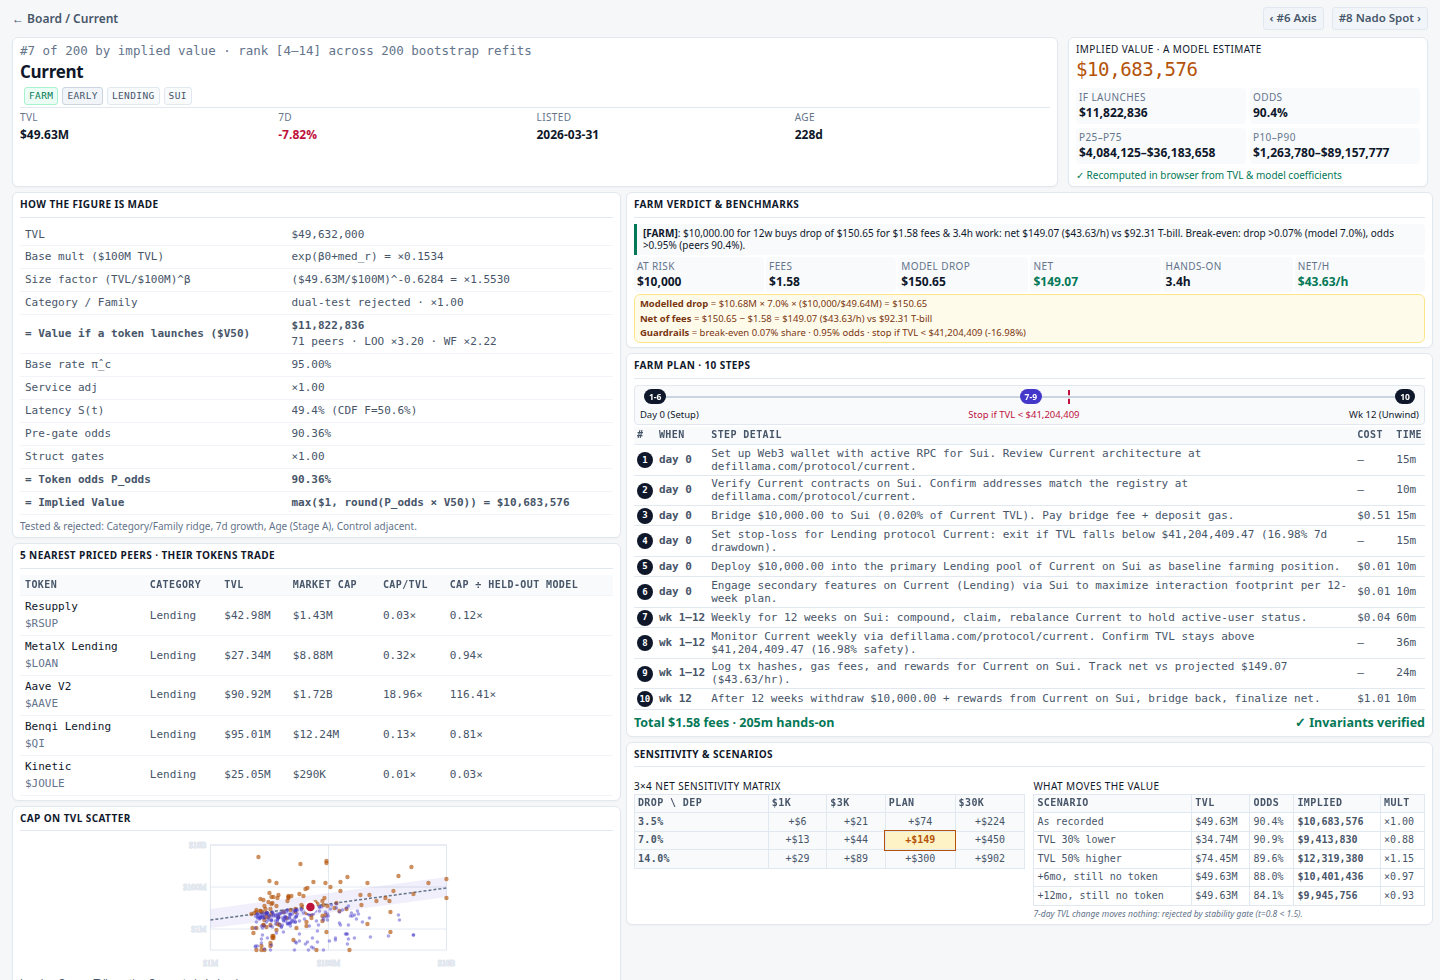
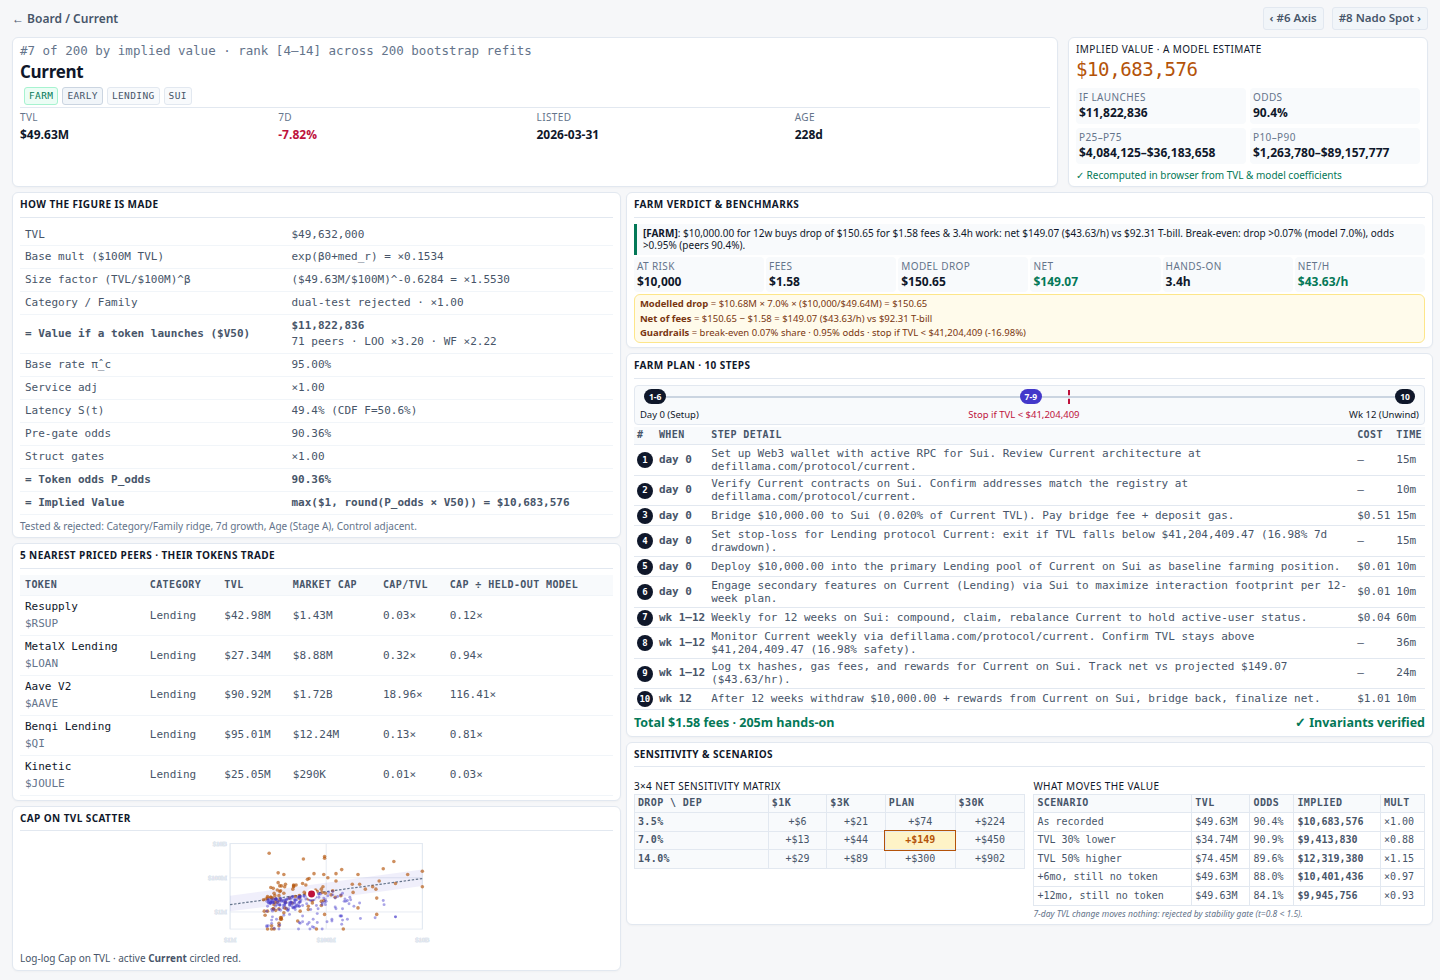
radar-5.3 qc1-fix3: fit detail scatter caption in frame (round 6)

diff --git a/dashboard/app.css b/dashboard/app.css
@@ -1,1 +1,1 @@
-.act,.dm-st,.e-ft,.inp,.m-tb,.p-gp,.s-bx,.sel,.tl-bar,.v-co,thead,tr.in-open{background:#f8fafc}.act,.bc-btn,.fp-btn,.p-gp,tr.r-ck:hover,.m-cl:hover{background:#f1f5f9}.act,.fp-btn,.in-pl-box,.inp,.sel{border:1px solid #cbd5e1}.bc-btn,.m-tb td,.m-tb th,.sn-tb td,.sn-tb th,.tl-bar{border:1px solid #e2e8f0}.a-bx,.c-bx,.dm-st,.e-ft,.fa-bx,.h-cd,.h-lf,.in-pl-box,.k-c,.t-br,.t-hd,.t-wp{border-radius:6px}.act,.fp-btn,.inp,.p-gp,.s-bx,.sel,.tl-bar{border-radius:4px}.a-bar,.a-hd,.a-it,.a-lg,.bc,.bc-nav,.in-pl-hd,.o-wp,.p-ft,.t-gp,.t-hd,.t-rw,.tl-lbl,.tl-track,.v-st{display:flex}.d-gd,.e-pan,.kpi6,.m-bx-grid,.m-st,.s-gd,.s-hd,.s-st6{display:grid}.act,.bc-btn,.bc-l,.dm-lk,.fp-btn,.m-cl,.p-btn,th.sortable,tr.r-ck{cursor:pointer}.a-tt,.c-mn,.k-v,.m-vl,.p-tt,.s-bv,.x-hd,th.sortable:hover,tr:hover .c-mn,.bc-l:hover{color:#0f172a}.a-lg,.a-sb,.bc,.c-lb,.dm-st,.e-ft,.e-sub,.k-t,td,th{color:#475569}.c-ft,.c-sb,.k-s,.m-lb,.s-bl,.sn-ft,.snap{color:#64748b}.a-lg,.a-tt,.c-ft,.e-sub,.h-hd,.k-s,.k-t,.m-lb,.m-tb,.r-nt,.s-bl,.sn-tb,.sub-hd,.tl-bar,.x-hd,th{font-size:10px}.a-sb,.act,.c-lb,.dm-st,.e-ft,.fa-bx,.in-pl-hd,.inp,.p-btn,.sel,table{font-size:11px}.bc,.m-vl,.s-bv,.v-co{font-size:12px}.b-tit,.dm-tt,.k-v,.m-vl,.neg,.p-ft,.p-tt,.pos,.s-bv,.x-hd,th{font-weight:700}.a-bx{padding:4px 8px}.a-bar,.a-hd{margin-bottom:3px}.a-sg{height:100%}.e-pan .c-bx{padding:3px 5px}.dm-tt{color:#1e293b}.dm-lk:hover{color:#312e81}.t-gp,.t-rw{align-items:center}.t-gp{gap:6px}.p-gp{padding:1px}.c-lb{gap:4px}.inp{min-width:130px}.act:hover,.bc-btn:hover,.fp-btn:hover{background:#e2e8f0}.t-wp{overflow-x:auto}th{text-align:left}tr.r-ck{transition:background .1s}.c-sk,.m-it{gap:1px}.pos,.r-nt{color:#047857}.neg{color:#be123c}.o-br,.o-tk{border-radius:2px}.w-br,.w-md{position:absolute}.in-pl{padding:0}.in-pl-hd{margin-bottom:6px}.bc{padding:2px 0}.bc-l{font-weight:600}.c-bx,.h-cd,.h-lf{padding:4px 7px}.r-nt,.s-gd{margin-top:4px}.d-gd{grid-template-columns:43% 57%}.c-col,.d-gd{gap:5px}.v-co.marginal{border-left-color:#b45309}.v-co.skip{border-left-color:#be123c}.s-bx{padding:2px 3px}.fa-bx div+div{margin-top:2px}.m-tb td,.m-tb th,.sn-tb td,.sn-tb th{padding:1.5px 3px}.sn-tb td{white-space:nowrap}*{box-sizing:border-box;margin:0;padding:0;border:0 solid #e2e8f0}body{background:#f6f7f9;color:#0f172a;font:12.5px/1.45 system-ui,sans-serif;-webkit-font-smoothing:antialiased}.badge,.h-v,.k-v,.mono,.snap,.v-pl,td,th{font-family:ui-monospace,monospace;font-feature-settings:"tnum"}.shell{max-width:1440px;margin:0 auto;padding:5px 12px;display:flex;flex-direction:column;gap:5px}.a-bx,.c-bx,.dm-st,.e-ft,.h-cd,.h-lf,.in-pl-box,.k-c,.t-br,.t-wp{background:#fff;border-width:1px;box-shadow:0 1px 2px #00000008}.c-bx,.c-col,.c-sk,.h-cd,.h-lf,.k-c,.m-it,.s-bx,.t-br,.w-wp{display:flex;flex-direction:column}.c-lb,.fp-btn,.p-bg,.tl-node,.v-pl{display:inline-flex;align-items:center}.a-tt,.badge,.h-hd,.k-t,.m-lb,.p-tb th,.s-bl,.sub-hd,.x-hd,th{text-transform:uppercase;letter-spacing:.04em}.t-hd{background:#111827;color:#f8fafc;padding:5px 10px;justify-content:space-between;align-items:center;flex-wrap:wrap;gap:8px}.b-tit{font-size:15px;color:#fff;letter-spacing:-.01em}.b-sub,.t-hd .snap{font-size:11.5px;color:#94a3b8}.m-hl{color:#38bdf8;font-weight:600}.kpi6{grid-template-columns:repeat(6,1fr);gap:5px}.k-c{padding:3px 7px;justify-content:space-between}.k-v{font-size:15px;letter-spacing:-.02em}.a-hd{justify-content:space-between;align-items:center}.a-bar{height:8px;border-radius:4px;overflow:hidden;background:#f1f5f9}.a-lg{flex-wrap:wrap;gap:4px 10px}.a-it{align-items:center;gap:4px}.a-dt{width:8px;height:8px;border-radius:2px;display:inline-block}.v-st{flex-wrap:wrap;gap:6px}.v-pl{gap:3px;padding:2px 7px;border-radius:12px;font-size:10.5px;background:#ecfdf5;color:#047857;border:1px solid #a7f3d0}.v-pl.pill-fail{background:#fff1f2;color:#be123c;border-color:#fecdd3}.e-pan{grid-template-columns:repeat(4,minmax(0,1fr));gap:5px}.e-pan td,.e-pan th{padding:1.5px 3px;font-size:9px;line-height:1.2}.e-pan td:first-child{white-space:normal;line-height:1.25}.e-pan .badge{margin:0;font-size:8px;padding:1px 2px;letter-spacing:0}.e-sub{line-height:1.35;margin-top:5px}.e-ft{grid-column:1/-1;padding:3px 8px;font-size:9.5px}.sc-svg{width:100%;height:auto;max-height:80px;display:block}.dm-st{padding:3px 8px;border-left:3px solid #6366f1;align-items:center;gap:4px;flex-wrap:wrap;font-size:10px}.dm-lk{color:#4338ca;text-decoration:underline;text-underline-offset:2px}.t-br{padding:3px 8px;gap:3px}.t-rw{gap:8px;justify-content:space-between;flex-wrap:wrap}.p-btn{background:0 0;font-weight:500;padding:3px 7px;border-radius:3px;color:#475569}.p-btn[aria-selected=true]{background:#0f172a;color:#fff;font-weight:700}.p-btn.farm-pill[aria-selected=true]{background:#047857;color:#fff}.p-btn.skip-pill[aria-selected=true]{background:#be123c;color:#fff}.inp,.sel{background:#fff;color:#0f172a;padding:3px 7px;outline:0}.act{color:#0f172a;padding:3px 7px;font-weight:500}table{width:100%;border-collapse:collapse}thead{position:sticky;top:0;z-index:2;border-bottom:1px solid #cbd5e1}td,th{white-space:nowrap;padding:3px 5px;vertical-align:middle;border-bottom:1px solid #f1f5f9}.badge{display:inline-block;padding:1px 4px;margin-left:4px;border-width:1px;border-radius:3px;font-size:9.5px}.b-farm{background:#ecfdf5;color:#047857;border-color:#a7f3d0}.b-marginal{background:#fffbeb;color:#b45309;border-color:#fde68a}.b-skip{background:#fff1f2;color:#be123c;border-color:#fecdd3}.b-watch{background:#eef2ff;color:#4338ca;border-color:#c7d2fe}.b-early{background:#f1f5f9;color:#475569;border-color:#cbd5e1}.b-gate{background:#fff7ed;color:#c2410c;border-color:#ffedd5}.b-tag{background:#f8fafc;color:#475569;border-color:#e2e8f0}.o-wp{align-items:center;gap:5px;min-width:85px}.o-tk{flex:1;height:5px;background:#e2e8f0;overflow:hidden}.o-br{height:100%;background:#4338ca}.w-wp{gap:2px;min-width:100px}.w-tk{position:relative;height:4px;background:#e2e8f0;border-radius:2px}.w-br{height:100%;background:#94a3b8;border-radius:2px}.w-md{top:-2px;width:2px;height:8px;background:#b45309;transform:translate(-50%)}.fp-btn{gap:3px;padding:2px 6px;font-size:10.5px;color:#334155;font-weight:500}.in-pl-box{padding:3px 5px;margin:2px 4px}.bc,.in-pl-hd{justify-content:space-between;align-items:center}.bc-nav{gap:8px;font-size:11.5px}.bc-btn{padding:2px 6px;border-radius:3px;font-weight:600}.s-hd{grid-template-columns:1fr 360px;gap:10px}.p-tt{font-size:17px;margin:0 0 2px;letter-spacing:-.02em}.m-st{grid-template-columns:repeat(4,1fr);gap:3px;margin-top:2px;border-top-width:1px;padding-top:2px}.x-hd{border-bottom-width:1px;padding-bottom:5px;margin-bottom:6px}.h-v{font-size:19px;color:#b45309;letter-spacing:-.02em}.s-gd{grid-template-columns:1fr 1fr;gap:4px}.v-co{border-left:3px solid #047857;padding:3px 6px;line-height:1.25;border-radius:0 4px 4px 0;font-size:10px}.s-st6{grid-template-columns:repeat(6,1fr);gap:2px;margin:2px 0}.fa-bx{background:#fffbeb;border:1px solid #fde68a;padding:3px 5px;line-height:1.3;color:#78350f;font-size:9.5px}.tl-bar{padding:2px 5px;margin-bottom:2px}.tl-track{position:relative;height:18px;align-items:center;justify-content:space-between;padding:0 4px}.tl-line{position:absolute;left:4px;right:4px;height:2px;background:#cbd5e1;top:50%;transform:translateY(-50%)}.tl-stop{position:absolute;left:55%;height:14px;border-left:2px dashed #be123c;top:2px}.tl-node{position:relative;z-index:2;justify-content:center;height:15px;padding:0 5px;border-radius:8px;background:#0f172a;color:#fff;font-size:8.5px;font-weight:700}.tl-lbl{justify-content:space-between;font-size:9.5px;margin-top:2px}.p-tb td,.p-tb th{padding:1.5px 3px;border-bottom:1px solid #e2e8f0}.p-tb td:nth-child(3){white-space:normal;line-height:1.2;word-break:break-word}.p-bg{justify-content:center;width:16px;height:16px;border-radius:50%;background:#0f172a;color:#fff;font-size:9px;font-weight:700}.p-ft{justify-content:space-between;align-items:center;padding-top:4px;color:#047857}.m-bx-grid{grid-template-columns:1fr 1fr;gap:8px;margin-top:6px}.m-tb,.sn-tb{border-collapse:collapse;width:100%}.m-cl{text-align:center;transition:background .1s}.m-cl.active{background:#fef3c7;font-weight:700;color:#b45309;outline:1.5px solid #b45309}.sn-ft{font-size:8.5px;margin-top:2px;font-style:italic}.c-ft{margin-top:5px;line-height:1.35}.skip-link{position:absolute;left:-9999px}.skip-link:focus{top:4px;left:4px;background:#0f172a;color:#fff;padding:4px 8px;font-weight:700;z-index:100;text-decoration:none}.d-gd .sc-svg{max-height:135px}
+.act,.dm-st,.e-ft,.inp,.m-tb,.p-gp,.s-bx,.sel,.tl-bar,.v-co,thead,tr.in-open{background:#f8fafc}.act,.bc-btn,.fp-btn,.p-gp,tr.r-ck:hover,.m-cl:hover{background:#f1f5f9}.act,.fp-btn,.in-pl-box,.inp,.sel{border:1px solid #cbd5e1}.bc-btn,.m-tb td,.m-tb th,.sn-tb td,.sn-tb th,.tl-bar{border:1px solid #e2e8f0}.a-bx,.c-bx,.dm-st,.e-ft,.fa-bx,.h-cd,.h-lf,.in-pl-box,.k-c,.t-br,.t-hd,.t-wp{border-radius:6px}.act,.fp-btn,.inp,.p-gp,.s-bx,.sel,.tl-bar{border-radius:4px}.a-bar,.a-hd,.a-it,.a-lg,.bc,.bc-nav,.in-pl-hd,.o-wp,.p-ft,.t-gp,.t-hd,.t-rw,.tl-lbl,.tl-track,.v-st{display:flex}.d-gd,.e-pan,.kpi6,.m-bx-grid,.m-st,.s-gd,.s-hd,.s-st6{display:grid}.act,.bc-btn,.bc-l,.dm-lk,.fp-btn,.m-cl,.p-btn,th.sortable,tr.r-ck{cursor:pointer}.a-tt,.c-mn,.k-v,.m-vl,.p-tt,.s-bv,.x-hd,th.sortable:hover,tr:hover .c-mn,.bc-l:hover{color:#0f172a}.a-lg,.a-sb,.bc,.c-lb,.dm-st,.e-ft,.e-sub,.k-t,td,th{color:#475569}.c-ft,.c-sb,.k-s,.m-lb,.s-bl,.sn-ft,.snap{color:#64748b}.a-lg,.a-tt,.c-ft,.e-sub,.h-hd,.k-s,.k-t,.m-lb,.m-tb,.r-nt,.s-bl,.sn-tb,.sub-hd,.tl-bar,.x-hd,th{font-size:10px}.a-sb,.act,.c-lb,.dm-st,.e-ft,.fa-bx,.in-pl-hd,.inp,.p-btn,.sel,table{font-size:11px}.bc,.m-vl,.s-bv,.v-co{font-size:12px}.b-tit,.dm-tt,.k-v,.m-vl,.neg,.p-ft,.p-tt,.pos,.s-bv,.x-hd,th{font-weight:700}.a-bx{padding:4px 8px}.a-bar,.a-hd{margin-bottom:3px}.a-sg{height:100%}.e-pan .c-bx{padding:3px 5px}.dm-tt{color:#1e293b}.dm-lk:hover{color:#312e81}.t-gp,.t-rw{align-items:center}.t-gp{gap:6px}.p-gp{padding:1px}.c-lb{gap:4px}.inp{min-width:130px}.act:hover,.bc-btn:hover,.fp-btn:hover{background:#e2e8f0}.t-wp{overflow-x:auto}th{text-align:left}tr.r-ck{transition:background .1s}.c-sk,.m-it{gap:1px}.pos,.r-nt{color:#047857}.neg{color:#be123c}.o-br,.o-tk{border-radius:2px}.w-br,.w-md{position:absolute}.in-pl{padding:0}.in-pl-hd{margin-bottom:6px}.bc{padding:2px 0}.bc-l{font-weight:600}.c-bx,.h-cd,.h-lf{padding:4px 7px}.r-nt,.s-gd{margin-top:4px}.d-gd{grid-template-columns:43% 57%}.c-col,.d-gd{gap:5px}.v-co.marginal{border-left-color:#b45309}.v-co.skip{border-left-color:#be123c}.s-bx{padding:2px 3px}.fa-bx div+div{margin-top:2px}.m-tb td,.m-tb th,.sn-tb td,.sn-tb th{padding:1.5px 3px}.sn-tb td{white-space:nowrap}*{box-sizing:border-box;margin:0;padding:0;border:0 solid #e2e8f0}body{background:#f6f7f9;color:#0f172a;font:12.5px/1.45 system-ui,sans-serif;-webkit-font-smoothing:antialiased}.badge,.h-v,.k-v,.mono,.snap,.v-pl,td,th{font-family:ui-monospace,monospace;font-feature-settings:"tnum"}.shell{max-width:1440px;margin:0 auto;padding:5px 12px;display:flex;flex-direction:column;gap:5px}.a-bx,.c-bx,.dm-st,.e-ft,.h-cd,.h-lf,.in-pl-box,.k-c,.t-br,.t-wp{background:#fff;border-width:1px;box-shadow:0 1px 2px #00000008}.c-bx,.c-col,.c-sk,.h-cd,.h-lf,.k-c,.m-it,.s-bx,.t-br,.w-wp{display:flex;flex-direction:column}.c-lb,.fp-btn,.p-bg,.tl-node,.v-pl{display:inline-flex;align-items:center}.a-tt,.badge,.h-hd,.k-t,.m-lb,.p-tb th,.s-bl,.sub-hd,.x-hd,th{text-transform:uppercase;letter-spacing:.04em}.t-hd{background:#111827;color:#f8fafc;padding:5px 10px;justify-content:space-between;align-items:center;flex-wrap:wrap;gap:8px}.b-tit{font-size:15px;color:#fff;letter-spacing:-.01em}.b-sub,.t-hd .snap{font-size:11.5px;color:#94a3b8}.m-hl{color:#38bdf8;font-weight:600}.kpi6{grid-template-columns:repeat(6,1fr);gap:5px}.k-c{padding:3px 7px;justify-content:space-between}.k-v{font-size:15px;letter-spacing:-.02em}.a-hd{justify-content:space-between;align-items:center}.a-bar{height:8px;border-radius:4px;overflow:hidden;background:#f1f5f9}.a-lg{flex-wrap:wrap;gap:4px 10px}.a-it{align-items:center;gap:4px}.a-dt{width:8px;height:8px;border-radius:2px;display:inline-block}.v-st{flex-wrap:wrap;gap:6px}.v-pl{gap:3px;padding:2px 7px;border-radius:12px;font-size:10.5px;background:#ecfdf5;color:#047857;border:1px solid #a7f3d0}.v-pl.pill-fail{background:#fff1f2;color:#be123c;border-color:#fecdd3}.e-pan{grid-template-columns:repeat(4,minmax(0,1fr));gap:5px}.e-pan td,.e-pan th{padding:1.5px 3px;font-size:9px;line-height:1.2}.e-pan td:first-child{white-space:normal;line-height:1.25}.e-pan .badge{margin:0;font-size:8px;padding:1px 2px;letter-spacing:0}.e-sub{line-height:1.35;margin-top:5px}.e-ft{grid-column:1/-1;padding:3px 8px;font-size:9.5px}.sc-svg{width:100%;height:auto;max-height:80px;display:block}.dm-st{padding:3px 8px;border-left:3px solid #6366f1;align-items:center;gap:4px;flex-wrap:wrap;font-size:10px}.dm-lk{color:#4338ca;text-decoration:underline;text-underline-offset:2px}.t-br{padding:3px 8px;gap:3px}.t-rw{gap:8px;justify-content:space-between;flex-wrap:wrap}.p-btn{background:0 0;font-weight:500;padding:3px 7px;border-radius:3px;color:#475569}.p-btn[aria-selected=true]{background:#0f172a;color:#fff;font-weight:700}.p-btn.farm-pill[aria-selected=true]{background:#047857;color:#fff}.p-btn.skip-pill[aria-selected=true]{background:#be123c;color:#fff}.inp,.sel{background:#fff;color:#0f172a;padding:3px 7px;outline:0}.act{color:#0f172a;padding:3px 7px;font-weight:500}table{width:100%;border-collapse:collapse}thead{position:sticky;top:0;z-index:2;border-bottom:1px solid #cbd5e1}td,th{white-space:nowrap;padding:3px 5px;vertical-align:middle;border-bottom:1px solid #f1f5f9}.badge{display:inline-block;padding:1px 4px;margin-left:4px;border-width:1px;border-radius:3px;font-size:9.5px}.b-farm{background:#ecfdf5;color:#047857;border-color:#a7f3d0}.b-marginal{background:#fffbeb;color:#b45309;border-color:#fde68a}.b-skip{background:#fff1f2;color:#be123c;border-color:#fecdd3}.b-watch{background:#eef2ff;color:#4338ca;border-color:#c7d2fe}.b-early{background:#f1f5f9;color:#475569;border-color:#cbd5e1}.b-gate{background:#fff7ed;color:#c2410c;border-color:#ffedd5}.b-tag{background:#f8fafc;color:#475569;border-color:#e2e8f0}.o-wp{align-items:center;gap:5px;min-width:85px}.o-tk{flex:1;height:5px;background:#e2e8f0;overflow:hidden}.o-br{height:100%;background:#4338ca}.w-wp{gap:2px;min-width:100px}.w-tk{position:relative;height:4px;background:#e2e8f0;border-radius:2px}.w-br{height:100%;background:#94a3b8;border-radius:2px}.w-md{top:-2px;width:2px;height:8px;background:#b45309;transform:translate(-50%)}.fp-btn{gap:3px;padding:2px 6px;font-size:10.5px;color:#334155;font-weight:500}.in-pl-box{padding:3px 5px;margin:2px 4px}.bc,.in-pl-hd{justify-content:space-between;align-items:center}.bc-nav{gap:8px;font-size:11.5px}.bc-btn{padding:2px 6px;border-radius:3px;font-weight:600}.s-hd{grid-template-columns:1fr 360px;gap:10px}.p-tt{font-size:17px;margin:0 0 2px;letter-spacing:-.02em}.m-st{grid-template-columns:repeat(4,1fr);gap:3px;margin-top:2px;border-top-width:1px;padding-top:2px}.x-hd{border-bottom-width:1px;padding-bottom:5px;margin-bottom:6px}.h-v{font-size:19px;color:#b45309;letter-spacing:-.02em}.s-gd{grid-template-columns:1fr 1fr;gap:4px}.v-co{border-left:3px solid #047857;padding:3px 6px;line-height:1.25;border-radius:0 4px 4px 0;font-size:10px}.s-st6{grid-template-columns:repeat(6,1fr);gap:2px;margin:2px 0}.fa-bx{background:#fffbeb;border:1px solid #fde68a;padding:3px 5px;line-height:1.3;color:#78350f;font-size:9.5px}.tl-bar{padding:2px 5px;margin-bottom:2px}.tl-track{position:relative;height:18px;align-items:center;justify-content:space-between;padding:0 4px}.tl-line{position:absolute;left:4px;right:4px;height:2px;background:#cbd5e1;top:50%;transform:translateY(-50%)}.tl-stop{position:absolute;left:55%;height:14px;border-left:2px dashed #be123c;top:2px}.tl-node{position:relative;z-index:2;justify-content:center;height:15px;padding:0 5px;border-radius:8px;background:#0f172a;color:#fff;font-size:8.5px;font-weight:700}.tl-lbl{justify-content:space-between;font-size:9.5px;margin-top:2px}.p-tb td,.p-tb th{padding:1.5px 3px;border-bottom:1px solid #e2e8f0}.p-tb td:nth-child(3){white-space:normal;line-height:1.2;word-break:break-word}.p-bg{justify-content:center;width:16px;height:16px;border-radius:50%;background:#0f172a;color:#fff;font-size:9px;font-weight:700}.p-ft{justify-content:space-between;align-items:center;padding-top:4px;color:#047857}.m-bx-grid{grid-template-columns:1fr 1fr;gap:8px;margin-top:6px}.m-tb,.sn-tb{border-collapse:collapse;width:100%}.m-cl{text-align:center;transition:background .1s}.m-cl.active{background:#fef3c7;font-weight:700;color:#b45309;outline:1.5px solid #b45309}.sn-ft{font-size:8.5px;margin-top:2px;font-style:italic}.c-ft{margin-top:5px;line-height:1.35}.skip-link{position:absolute;left:-9999px}.skip-link:focus{top:4px;left:4px;background:#0f172a;color:#fff;padding:4px 8px;font-weight:700;z-index:100;text-decoration:none}.d-gd .sc-svg{max-height:110px}
